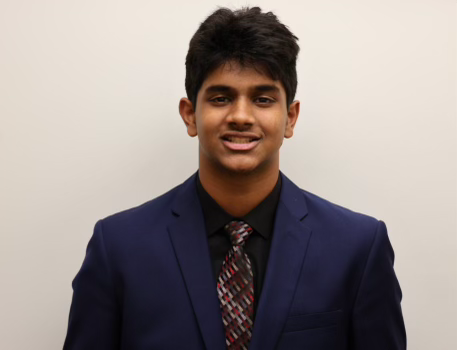
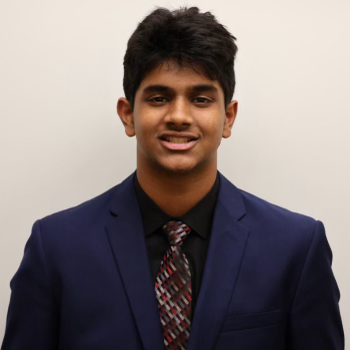
team member pic change

diff --git a/src/components/routes/courses/SingleCourse.jsx b/src/components/routes/courses/SingleCourse.jsx
@@ -2,16 +2,16 @@ import React from 'react';
 import { Link } from 'react-router-dom';
 import Contact from '../../global/Contact';
 
-const SingleCourse = (props) => {  
-    document.title = props.course.name;
+const SingleCourse = ({course}) => {  
+    document.title = course.name;
     return(
         <div>
             <div className="flex justify-center text-white m-auto">
                 <div className="mt-40">
                     <div className="text-center px-4 space-y-6 w-5/6 m-auto leading-loose basis-1/2">  
-                        <div className="text-5xl font-bold p-4">{props.course.name}</div>
+                        <div className="text-5xl font-bold p-4">{course.name}</div>
                         <h2 className="text-lg md:max-lg:text-xl lg:text-2xl leading-10 lg:leading-10">
-                            {props.course.description}
+                            {course.description}
                         </h2>
                     </div>
                 </div>
@@ -22,17 +22,17 @@ const SingleCourse = (props) => {
                         <div className='basis-1/2 space-y-4 bg-slate-800 rounded-lg p-8'>
                             <h1 className="text-xl md:max-lg:text-2xl lg:text-3xl font-bold">What is it?</h1>
                             <p className='text-md md:max-lg:text-lg lg:text-xl leading-10 lg:leading-10'>
-                                {props.course.about}
+                                {course.about}
                             </p>
                         </div>
                         <div className='basis-1/2 flex justify-center'>
-                            <img src={props.course.image} alt="course logo" />
+                            <img src={course.image} alt="course logo" />
                         </div>
                     </div>
                     <div className="text-center space-y-8">
                         <h1 className="text-3xl md:text-4xl p-4 font-bold">Course Syllabus</h1>
                         <ul className="space-y-4 text-lg md:max-lg:text-xl lg:text-2xl bg-slate-700 rounded-lg w-fit p-8 mx-auto">
-                            {props.course.syllabus.map((unit) => {
+                            {course.syllabus.map((unit) => {
                                 return(
                                     <li className='text-left'><strong>Unit {unit.unitNum} :</strong> {unit.unit}</li>
                                 )

diff --git a/src/components/routes/tutors/TutorData.jsx b/src/components/routes/tutors/TutorData.jsx
@@ -1,4 +1,4 @@
-import ashwin from '../../../assets/images/team-members/ashwin.jpg';
+import ashwin from '../../../assets/images/team-members/ashwin.png';
 import arnav from '../../../assets/images/team-members/arnav.png';
 
 
